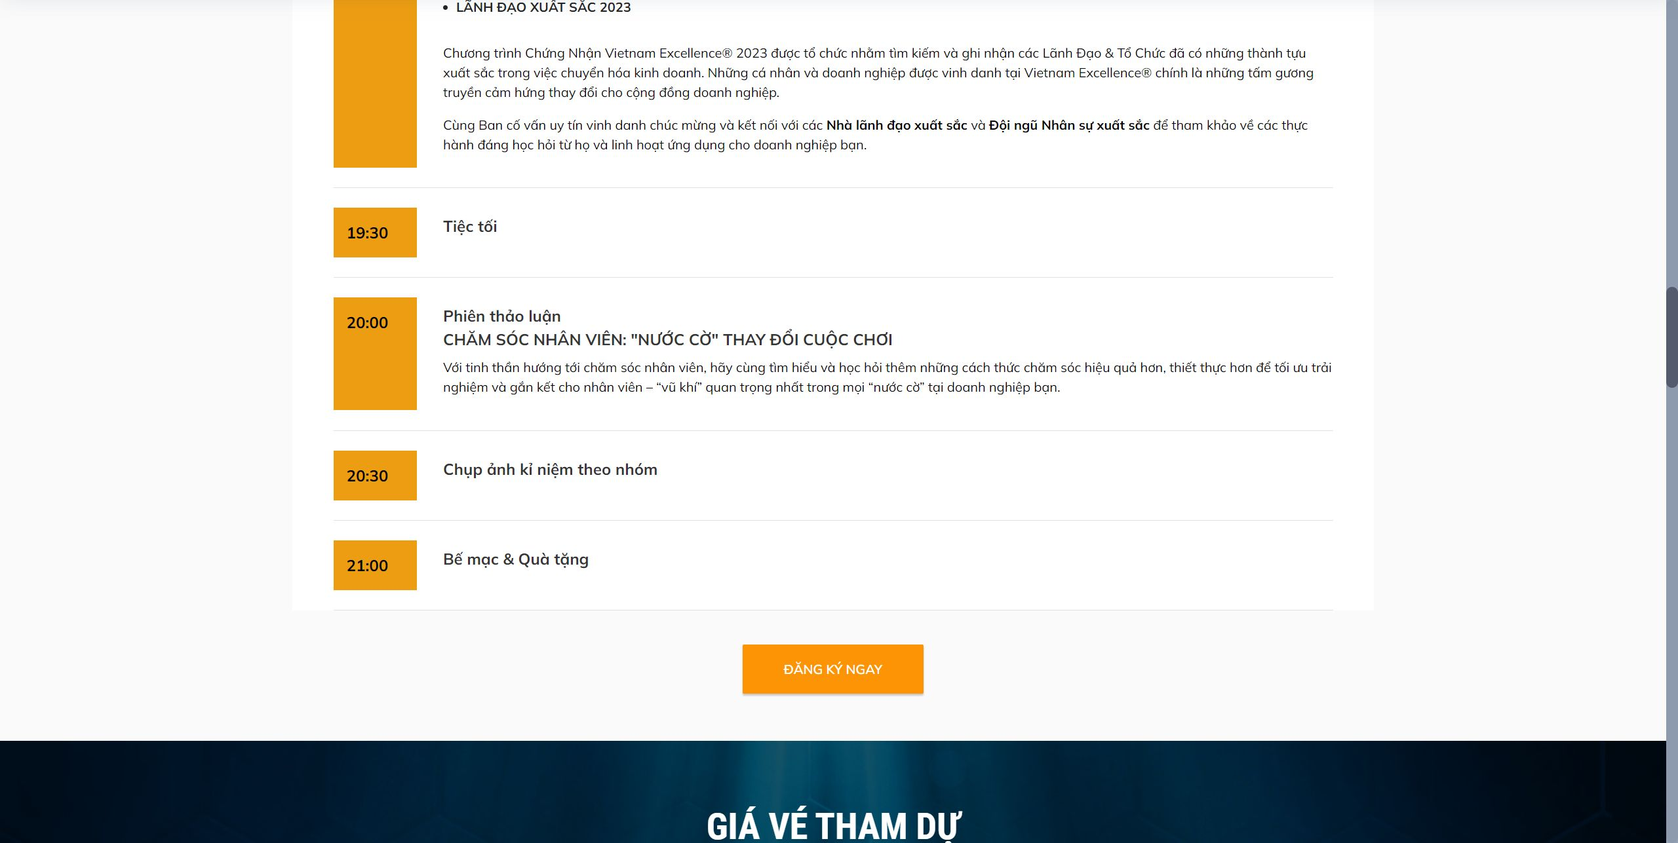
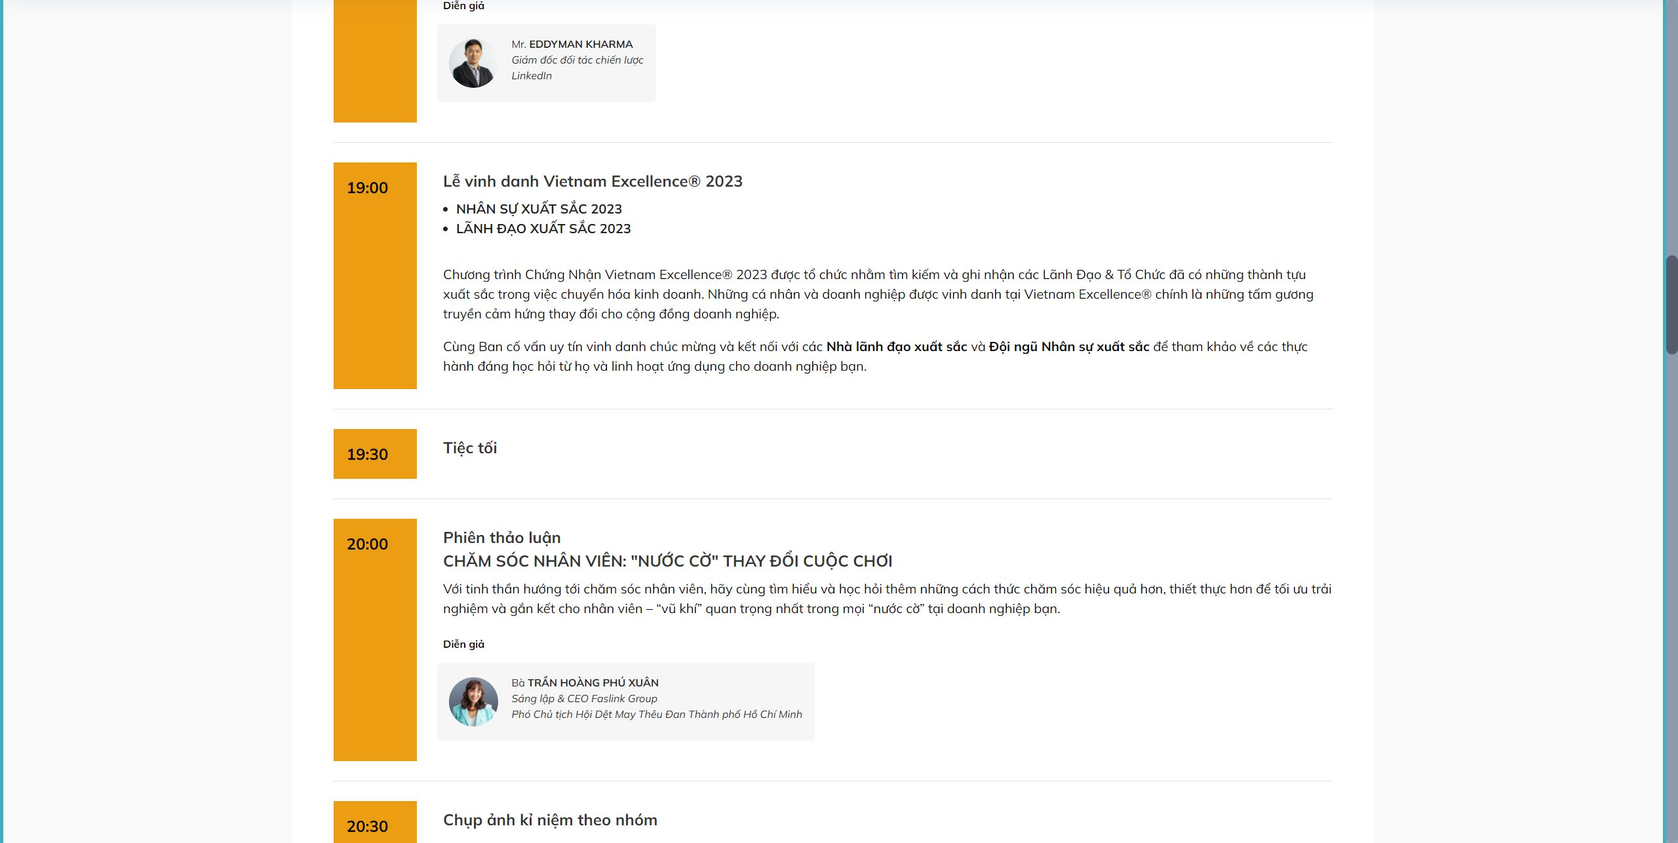
update

diff --git a/vietnamexcellence/2023/index.html b/vietnamexcellence/2023/index.html
@@ -356,6 +356,34 @@ height="0" width="0" style="display:none;visibility:hidden"></iframe></noscript>
                     <div class="text-box">                        
                         <h5 class="icon-text mbr-black mbr-fonts-style display-5"><strong>Phiên thảo luận</strong><br><strong>CHĂM SÓC NHÂN VIÊN: "NƯỚC CỜ" THAY ĐỔI CUỘC CHƠI</strong></h5>  
                         <p class="mbr-fonts-style display-7">Với tinh thần hướng tới chăm sóc nhân viên, hãy cùng tìm hiểu và học hỏi thêm những cách thức chăm sóc hiệu quả hơn, thiết thực hơn để tối ưu trải nghiệm và gắn kết cho nhân viên – “vũ khí” quan trọng nhất trong mọi “nước cờ” tại doanh nghiệp bạn.</p>                      
+                        <div class="schedule-speakers mb-4">
+                            <div class="speaker-title">
+                                <p class="mbr-text mbr-fonts-style display-7">
+                                    <strong>Diễn giả</strong>
+                                </p>
+                            </div>
+                            <ul class="speaker-list">
+                                <li>
+                                    <div class="speaker-img">
+                                        <img src="assets/images/phu-xuan.jpg" alt="Phú Xuân">
+                                    </div>
+                                    <div class="speaker-detail">
+                                        <h4 class="icon-title mbr-black mbr-fonts-style display-7">
+                                            Bà <strong>TRẦN HOÀNG PHÚ XUÂN</strong><br><em>Sáng lập &amp; CEO Faslink Group</em><br><em>Phó Chủ tịch Hội Dệt May Thêu Đan Thành phố Hồ Chí Minh</em></h4>
+                                    </div>
+                                </li>
+                                <li>
+                                    <div class="speaker-img">
+                                        <img src="assets/images/thu-hoa.jpg" alt="Thu Hòa">
+                                    </div>
+                                    <div class="speaker-detail">
+                                        <h4 class="icon-title mbr-black mbr-fonts-style display-7">
+                                            Bà <strong>NGUYỄN THỊ THU HÒA</strong><br><em>Tổng Giám Đốc - ADP Group</em></h4>
+                                    </div>
+                                </li>
+                            </ul>
+                           
+                        </div>
                     </div>
                 </div> 
 
@@ -476,8 +504,8 @@ height="0" width="0" style="display:none;visibility:hidden"></iframe></noscript>
     <div class="container">        
         <div class="row mbr-gallery">
             <div class="col-12 col-md-4 col-lg-4 item gallery-image">
-                <div class="item-wrapper" data-toggle="modal" data-bs-toggle="modal" data-target="#tJNJmvtPt3-modal" data-bs-target="#tJNJmvtPt3-modal">
-                    <img class="w-100 image-speaker" src="assets/images/tanthanh-2022.jpg" alt="Ông VÕ TÂN THÀNH" data-slide-to="0" data-bs-slide-to="0" data-target="#lb-tJNJmvtPt3" data-bs-target="#lb-tJNJmvtPt3">
+                <div class="item-wrapper" data-toggle="modal" data-bs-toggle="modal" data-target="#tJQUEbxIeS-modal" data-bs-target="#tJQUEbxIeS-modal">
+                    <img class="w-100 image-speaker" src="assets/images/tanthanh-2022.jpg" alt="Ông VÕ TÂN THÀNH" data-slide-to="0" data-bs-slide-to="0" data-target="#lb-tJQUEbxIeS" data-bs-target="#lb-tJQUEbxIeS">
                     <div class="icon-wrapper">
                         <span class="mobi-mbri mobi-mbri-search mbr-iconfont mbr-iconfont-btn"></span>
                     </div>
@@ -488,8 +516,8 @@ height="0" width="0" style="display:none;visibility:hidden"></iframe></noscript>
                 </div>
             </div>
             <div class="col-12 col-md-4 col-lg-4 item gallery-image">
-                <div class="item-wrapper" data-toggle="modal" data-bs-toggle="modal" data-target="#tJNJmvtPt3-modal" data-bs-target="#tJNJmvtPt3-modal">
-                    <img class="w-100 image-speaker" src="assets/images/khuong-2022.jpg" alt="GS.TS. NGUYỄN ĐỨC KHƯƠNG" data-slide-to="1" data-bs-slide-to="1" data-target="#lb-tJNJmvtPt3" data-bs-target="#lb-tJNJmvtPt3">
+                <div class="item-wrapper" data-toggle="modal" data-bs-toggle="modal" data-target="#tJQUEbxIeS-modal" data-bs-target="#tJQUEbxIeS-modal">
+                    <img class="w-100 image-speaker" src="assets/images/khuong-2022.jpg" alt="GS.TS. NGUYỄN ĐỨC KHƯƠNG" data-slide-to="1" data-bs-slide-to="1" data-target="#lb-tJQUEbxIeS" data-bs-target="#lb-tJQUEbxIeS">
                     <div class="icon-wrapper">
                         <span class="mobi-mbri mobi-mbri-search mbr-iconfont mbr-iconfont-btn"></span>
                     </div>
@@ -500,8 +528,8 @@ height="0" width="0" style="display:none;visibility:hidden"></iframe></noscript>
                 </div>
             </div>            
             <div class="col-12 col-md-4 col-lg-4 item gallery-image">
-                <div class="item-wrapper" data-toggle="modal" data-bs-toggle="modal" data-target="#tJNJmvtPt3-modal" data-bs-target="#tJNJmvtPt3-modal">
-                    <img class="w-100" src="assets/images/joshua-2022.jpg" alt="Ông JOSHUA JAMES" data-slide-to="2" data-bs-slide-to="2" data-target="#lb-tJNJmvtPt3" data-bs-target="#lb-tJNJmvtPt3">
+                <div class="item-wrapper" data-toggle="modal" data-bs-toggle="modal" data-target="#tJQUEbxIeS-modal" data-bs-target="#tJQUEbxIeS-modal">
+                    <img class="w-100" src="assets/images/joshua-2022.jpg" alt="Ông JOSHUA JAMES" data-slide-to="2" data-bs-slide-to="2" data-target="#lb-tJQUEbxIeS" data-bs-target="#lb-tJQUEbxIeS">
                     <div class="icon-wrapper">
                         <span class="mobi-mbri mobi-mbri-search mbr-iconfont mbr-iconfont-btn"></span>
                     </div>
@@ -512,8 +540,8 @@ height="0" width="0" style="display:none;visibility:hidden"></iframe></noscript>
                 </div>
             </div>
             <div class="col-12 col-md-4 col-lg-4 item gallery-image">
-                <div class="item-wrapper" data-toggle="modal" data-bs-toggle="modal" data-target="#tJNJmvtPt3-modal" data-bs-target="#tJNJmvtPt3-modal">
-                    <img class="w-100 image-speaker" src="assets/images/kimthuy-2022.jpg" alt="Bà BÙI KIM THÙY" data-slide-to="3" data-bs-slide-to="3" data-target="#lb-tJNJmvtPt3" data-bs-target="#lb-tJNJmvtPt3">
+                <div class="item-wrapper" data-toggle="modal" data-bs-toggle="modal" data-target="#tJQUEbxIeS-modal" data-bs-target="#tJQUEbxIeS-modal">
+                    <img class="w-100 image-speaker" src="assets/images/kimthuy-2022.jpg" alt="Bà BÙI KIM THÙY" data-slide-to="3" data-bs-slide-to="3" data-target="#lb-tJQUEbxIeS" data-bs-target="#lb-tJQUEbxIeS">
                     <div class="icon-wrapper">
                         <span class="mobi-mbri mobi-mbri-search mbr-iconfont mbr-iconfont-btn"></span>
                     </div>
@@ -524,8 +552,8 @@ height="0" width="0" style="display:none;visibility:hidden"></iframe></noscript>
                 </div>
             </div>
             <div class="col-12 col-md-4 col-lg-4 item gallery-image">
-                <div class="item-wrapper" data-toggle="modal" data-bs-toggle="modal" data-target="#tJNJmvtPt3-modal" data-bs-target="#tJNJmvtPt3-modal">
-                    <img class="w-100" src="assets/images/winnie-2022.jpg" alt="Bà WINNIE LAM" data-slide-to="4" data-bs-slide-to="4" data-target="#lb-tJNJmvtPt3" data-bs-target="#lb-tJNJmvtPt3">
+                <div class="item-wrapper" data-toggle="modal" data-bs-toggle="modal" data-target="#tJQUEbxIeS-modal" data-bs-target="#tJQUEbxIeS-modal">
+                    <img class="w-100" src="assets/images/winnie-2022.jpg" alt="Bà WINNIE LAM" data-slide-to="4" data-bs-slide-to="4" data-target="#lb-tJQUEbxIeS" data-bs-target="#lb-tJQUEbxIeS">
                     <div class="icon-wrapper">
                         <span class="mobi-mbri mobi-mbri-search mbr-iconfont mbr-iconfont-btn"></span>
                     </div>
@@ -536,8 +564,8 @@ height="0" width="0" style="display:none;visibility:hidden"></iframe></noscript>
                 </div>
             </div>
             <div class="col-12 col-md-4 col-lg-4 item gallery-image">
-                <div class="item-wrapper" data-toggle="modal" data-bs-toggle="modal" data-target="#tJNJmvtPt3-modal" data-bs-target="#tJNJmvtPt3-modal">
-                    <img class="w-100 image-speaker" src="assets/images/simon-2022.jpg" alt="Ông SIMON FRASER" data-slide-to="5" data-bs-slide-to="5" data-target="#lb-tJNJmvtPt3" data-bs-target="#lb-tJNJmvtPt3">
+                <div class="item-wrapper" data-toggle="modal" data-bs-toggle="modal" data-target="#tJQUEbxIeS-modal" data-bs-target="#tJQUEbxIeS-modal">
+                    <img class="w-100 image-speaker" src="assets/images/simon-2022.jpg" alt="Ông SIMON FRASER" data-slide-to="5" data-bs-slide-to="5" data-target="#lb-tJQUEbxIeS" data-bs-target="#lb-tJQUEbxIeS">
                     <div class="icon-wrapper">
                         <span class="mobi-mbri mobi-mbri-search mbr-iconfont mbr-iconfont-btn"></span>
                     </div>
@@ -549,11 +577,11 @@ height="0" width="0" style="display:none;visibility:hidden"></iframe></noscript>
             </div>
         </div>
 
-        <div class="modal mbr-slider" tabindex="-1" role="dialog" aria-hidden="true" id="tJNJmvtPt3-modal">
+        <div class="modal mbr-slider" tabindex="-1" role="dialog" aria-hidden="true" id="tJQUEbxIeS-modal">
             <div class="modal-dialog" role="document">
                 <div class="modal-content">
                     <div class="modal-body">
-                        <div class="carousel slide" id="lb-tJNJmvtPt3" data-interval="5000" data-bs-interval="5000">
+                        <div class="carousel slide" id="lb-tJQUEbxIeS" data-interval="5000" data-bs-interval="5000">
                             <div class="carousel-inner">
                                 <div class="carousel-item active">
                                     <div class="row">
@@ -682,21 +710,21 @@ height="0" width="0" style="display:none;visibility:hidden"></iframe></noscript>
                             </div>
 
                             <ol class="carousel-indicators">
-                                <li data-slide-to="0" data-bs-slide-to="0" class="active" data-target="#lb-tJNJmvtPt3" data-bs-target="#lb-tJNJmvtPt3"></li>
-                                <li data-slide-to="1" data-bs-slide-to="1" data-target="#lb-tJNJmvtPt3" data-bs-target="#lb-tJNJmvtPt3"></li>
-                                <li data-slide-to="2" data-bs-slide-to="2" data-target="#lb-tJNJmvtPt3" data-bs-target="#lb-tJNJmvtPt3"></li>
-                                <li data-slide-to="3" data-bs-slide-to="3" data-target="#lb-tJNJmvtPt3" data-bs-target="#lb-tJNJmvtPt3"></li>
-                                <li data-slide-to="4" data-bs-slide-to="4" data-target="#lb-tJNJmvtPt3" data-bs-target="#lb-tJNJmvtPt3"></li>
-                                <li data-slide-to="5" data-bs-slide-to="5" data-target="#lb-tJNJmvtPt3" data-bs-target="#lb-tJNJmvtPt3"></li>
+                                <li data-slide-to="0" data-bs-slide-to="0" class="active" data-target="#lb-tJQUEbxIeS" data-bs-target="#lb-tJQUEbxIeS"></li>
+                                <li data-slide-to="1" data-bs-slide-to="1" data-target="#lb-tJQUEbxIeS" data-bs-target="#lb-tJQUEbxIeS"></li>
+                                <li data-slide-to="2" data-bs-slide-to="2" data-target="#lb-tJQUEbxIeS" data-bs-target="#lb-tJQUEbxIeS"></li>
+                                <li data-slide-to="3" data-bs-slide-to="3" data-target="#lb-tJQUEbxIeS" data-bs-target="#lb-tJQUEbxIeS"></li>
+                                <li data-slide-to="4" data-bs-slide-to="4" data-target="#lb-tJQUEbxIeS" data-bs-target="#lb-tJQUEbxIeS"></li>
+                                <li data-slide-to="5" data-bs-slide-to="5" data-target="#lb-tJQUEbxIeS" data-bs-target="#lb-tJQUEbxIeS"></li>
                                 
                             </ol>
                             <a role="button" href="" class="close" data-dismiss="modal" data-bs-dismiss="modal" aria-label="Close">
                             </a>
-                            <a class="carousel-control-prev carousel-control" role="button" data-slide="prev" data-bs-slide="prev" href="#lb-tJNJmvtPt3">
+                            <a class="carousel-control-prev carousel-control" role="button" data-slide="prev" data-bs-slide="prev" href="#lb-tJQUEbxIeS">
                                 <span class="mobi-mbri mobi-mbri-arrow-prev" aria-hidden="true"></span>
                                 <span class="sr-only visually-hidden">Previous</span>
                             </a>
-                            <a class="carousel-control-next carousel-control" role="button" data-slide="next" data-bs-slide="next" href="#lb-tJNJmvtPt3">
+                            <a class="carousel-control-next carousel-control" role="button" data-slide="next" data-bs-slide="next" href="#lb-tJQUEbxIeS">
                                 <span class="mobi-mbri mobi-mbri-arrow-next" aria-hidden="true"></span>
                                 <span class="sr-only visually-hidden">Next</span>
                             </a>
@@ -732,8 +760,8 @@ height="0" width="0" style="display:none;visibility:hidden"></iframe></noscript>
     <div class="container">        
         <div class="row mbr-gallery">
             <div class="col-12 col-md-4 col-lg-3 item gallery-image">
-                <div class="item-wrapper" data-toggle="modal" data-bs-toggle="modal" data-target="#tJNJmw9u9x-modal" data-bs-target="#tJNJmw9u9x-modal">
-                    <img class="w-100 image-speaker" src="assets/images/thanh-2023.jpg" alt="Bà THANH NGUYỄN" data-slide-to="0" data-bs-slide-to="0" data-target="#lb-tJNJmw9u9x" data-bs-target="#lb-tJNJmw9u9x">
+                <div class="item-wrapper" data-toggle="modal" data-bs-toggle="modal" data-target="#tJQUEc9sR5-modal" data-bs-target="#tJQUEc9sR5-modal">
+                    <img class="w-100 image-speaker" src="assets/images/thanh-2023.jpg" alt="Bà THANH NGUYỄN" data-slide-to="0" data-bs-slide-to="0" data-target="#lb-tJQUEc9sR5" data-bs-target="#lb-tJQUEc9sR5">
                     <div class="icon-wrapper">
                         <span class="mobi-mbri mobi-mbri-search mbr-iconfont mbr-iconfont-btn"></span>
                     </div>
@@ -744,8 +772,8 @@ height="0" width="0" style="display:none;visibility:hidden"></iframe></noscript>
                 </div>
             </div>
             <div class="col-12 col-md-4 col-lg-3 item gallery-image">
-                <div class="item-wrapper" data-toggle="modal" data-bs-toggle="modal" data-target="#tJNJmw9u9x-modal" data-bs-target="#tJNJmw9u9x-modal">
-                    <img class="w-100 image-speaker" src="assets/images/eddy-2023.jpg" alt="Ông EDDYMAN KHARMA" data-slide-to="1" data-bs-slide-to="1" data-target="#lb-tJNJmw9u9x" data-bs-target="#lb-tJNJmw9u9x">
+                <div class="item-wrapper" data-toggle="modal" data-bs-toggle="modal" data-target="#tJQUEc9sR5-modal" data-bs-target="#tJQUEc9sR5-modal">
+                    <img class="w-100 image-speaker" src="assets/images/eddy-2023.jpg" alt="Ông EDDYMAN KHARMA" data-slide-to="1" data-bs-slide-to="1" data-target="#lb-tJQUEc9sR5" data-bs-target="#lb-tJQUEc9sR5">
                     <div class="icon-wrapper">
                         <span class="mobi-mbri mobi-mbri-search mbr-iconfont mbr-iconfont-btn"></span>
                     </div>
@@ -756,8 +784,8 @@ height="0" width="0" style="display:none;visibility:hidden"></iframe></noscript>
                 </div>
             </div>            
             <div class="col-12 col-md-4 col-lg-3 item gallery-image">
-                <div class="item-wrapper" data-toggle="modal" data-bs-toggle="modal" data-target="#tJNJmw9u9x-modal" data-bs-target="#tJNJmw9u9x-modal">
-                    <img class="w-100" src="assets/images/xuan-2023.jpg" alt="Bà TRẦN HOÀNG PHÚ XUÂN" data-slide-to="2" data-bs-slide-to="2" data-target="#lb-tJNJmw9u9x" data-bs-target="#lb-tJNJmw9u9x">
+                <div class="item-wrapper" data-toggle="modal" data-bs-toggle="modal" data-target="#tJQUEc9sR5-modal" data-bs-target="#tJQUEc9sR5-modal">
+                    <img class="w-100" src="assets/images/xuan-2023.jpg" alt="Bà TRẦN HOÀNG PHÚ XUÂN" data-slide-to="2" data-bs-slide-to="2" data-target="#lb-tJQUEc9sR5" data-bs-target="#lb-tJQUEc9sR5">
                     <div class="icon-wrapper">
                         <span class="mobi-mbri mobi-mbri-search mbr-iconfont mbr-iconfont-btn"></span>
                     </div>
@@ -769,8 +797,8 @@ height="0" width="0" style="display:none;visibility:hidden"></iframe></noscript>
                 </div>
             </div>
             <div class="col-12 col-md-4 col-lg-3 item gallery-image">
-                <div class="item-wrapper" data-toggle="modal" data-bs-toggle="modal" data-target="#tJNJmw9u9x-modal" data-bs-target="#tJNJmw9u9x-modal">
-                    <img class="w-100 image-speaker" src="assets/images/hoa-adp-2023.jpg" alt="Bà NGUYỄN THỊ THU HÒA" data-slide-to="3" data-bs-slide-to="3" data-target="#lb-tJNJmw9u9x" data-bs-target="#lb-tJNJmw9u9x">
+                <div class="item-wrapper" data-toggle="modal" data-bs-toggle="modal" data-target="#tJQUEc9sR5-modal" data-bs-target="#tJQUEc9sR5-modal">
+                    <img class="w-100 image-speaker" src="assets/images/hoa-adp-2023.jpg" alt="Bà NGUYỄN THỊ THU HÒA" data-slide-to="3" data-bs-slide-to="3" data-target="#lb-tJQUEc9sR5" data-bs-target="#lb-tJQUEc9sR5">
                     <div class="icon-wrapper">
                         <span class="mobi-mbri mobi-mbri-search mbr-iconfont mbr-iconfont-btn"></span>
                     </div>
@@ -784,11 +812,11 @@ height="0" width="0" style="display:none;visibility:hidden"></iframe></noscript>
             
         </div>
 
-        <div class="modal mbr-slider" tabindex="-1" role="dialog" aria-hidden="true" id="tJNJmw9u9x-modal">
+        <div class="modal mbr-slider" tabindex="-1" role="dialog" aria-hidden="true" id="tJQUEc9sR5-modal">
             <div class="modal-dialog" role="document">
                 <div class="modal-content">
                     <div class="modal-body">
-                        <div class="carousel slide" id="lb-tJNJmw9u9x" data-interval="5000" data-bs-interval="5000">
+                        <div class="carousel slide" id="lb-tJQUEc9sR5" data-interval="5000" data-bs-interval="5000">
                             <div class="carousel-inner">
                                 <div class="carousel-item active">
                                     <div class="row">
@@ -881,21 +909,21 @@ height="0" width="0" style="display:none;visibility:hidden"></iframe></noscript>
                             </div>
 
                             <ol class="carousel-indicators">
-                                <li data-slide-to="0" data-bs-slide-to="0" class="active" data-target="#lb-tJNJmw9u9x" data-bs-target="#lb-tJNJmw9u9x"></li>
-                                <li data-slide-to="1" data-bs-slide-to="1" data-target="#lb-tJNJmw9u9x" data-bs-target="#lb-tJNJmw9u9x"></li>
-                                <li data-slide-to="2" data-bs-slide-to="2" data-target="#lb-tJNJmw9u9x" data-bs-target="#lb-tJNJmw9u9x"></li>
-                                <li data-slide-to="3" data-bs-slide-to="3" data-target="#lb-tJNJmw9u9x" data-bs-target="#lb-tJNJmw9u9x"></li>
+                                <li data-slide-to="0" data-bs-slide-to="0" class="active" data-target="#lb-tJQUEc9sR5" data-bs-target="#lb-tJQUEc9sR5"></li>
+                                <li data-slide-to="1" data-bs-slide-to="1" data-target="#lb-tJQUEc9sR5" data-bs-target="#lb-tJQUEc9sR5"></li>
+                                <li data-slide-to="2" data-bs-slide-to="2" data-target="#lb-tJQUEc9sR5" data-bs-target="#lb-tJQUEc9sR5"></li>
+                                <li data-slide-to="3" data-bs-slide-to="3" data-target="#lb-tJQUEc9sR5" data-bs-target="#lb-tJQUEc9sR5"></li>
                                 
                                 
                                 
                             </ol>
                             <a role="button" href="" class="close" data-dismiss="modal" data-bs-dismiss="modal" aria-label="Close">
                             </a>
-                            <a class="carousel-control-prev carousel-control" role="button" data-slide="prev" data-bs-slide="prev" href="#lb-tJNJmw9u9x">
+                            <a class="carousel-control-prev carousel-control" role="button" data-slide="prev" data-bs-slide="prev" href="#lb-tJQUEc9sR5">
                                 <span class="mobi-mbri mobi-mbri-arrow-prev" aria-hidden="true"></span>
                                 <span class="sr-only visually-hidden">Previous</span>
                             </a>
-                            <a class="carousel-control-next carousel-control" role="button" data-slide="next" data-bs-slide="next" href="#lb-tJNJmw9u9x">
+                            <a class="carousel-control-next carousel-control" role="button" data-slide="next" data-bs-slide="next" href="#lb-tJQUEc9sR5">
                                 <span class="mobi-mbri mobi-mbri-arrow-next" aria-hidden="true"></span>
                                 <span class="sr-only visually-hidden">Next</span>
                             </a>

diff --git a/vietnamexcellence/2023/assets/theme/js/script.js b/vietnamexcellence/2023/assets/theme/js/script.js
@@ -58,4 +58,4 @@ f)});d.forEach(function(a){a.removeEventListener("click",f)});u&&h(a).carousel({
 h(this).styler()}),h(a).find("input[type=number]").each(function(){h(this).styler&&(h(this).styler(),h(this).parent().parent().removeClass("form-control"))}),h(a).find("input[type=date]").each(function(){h(this).datetimepicker&&h(this).datetimepicker({format:"Y-m-d",timepicker:!1})}),h(a).find("input[type=time]").each(function(){h(this).datetimepicker&&h(this).datetimepicker({format:"H:i",datepicker:!1})}))})}document.querySelectorAll('input[type="range"]').forEach(function(a){a.addEventListener("change",
 function(a){a.target.parents(".form-group").forEach(function(b){b.querySelector(".value").innerHTML=a.target.value})})});if(p)h(document).on("add.cards changeParameter.cards",function(a,b){"undefined"!==typeof CircularProgressBar&&new CircularProgressBar("pie_progress");b?H(a.target,b):a.target.querySelectorAll(".pie_progress").length&&a.target.querySelectorAll(".pie_progress").forEach(function(a){C(a)})});else document.querySelectorAll(".pie_progress").length&&("undefined"!==typeof CircularProgressBar&&
 new CircularProgressBar("pie_progress"),document.querySelectorAll(".pie_progress").forEach(function(a){C(a)}));if(p&&u)h(document).on("add.cards",function(a){h(a.target).hasClass("testimonials-slider")&&x(a.target)}).on("changeParameter.cards",function(a,b,d){"testimonialsSlides"===b&&0==h(a.target).find(".carousel-item.active").length&&A(a.target)});else"undefined"===typeof window.initTestimonialsPlugin&&(window.initTestimonialsPlugin=!0,document.querySelectorAll(".testimonials-slider").forEach(function(a){x(a)}));
-l(function(){p||Array.from(document.body.children).filter(function(a){return!a.matches("style, script")}).forEach(function(a){if(window.Event&&"function"===typeof window.Event)var b=new Event("add.cards");else b=document.createEvent("CustomEvent"),b.initEvent("add.cards",!0,!0);a.dispatchEvent(b)})})})();document.getElementsByTagName("body")[0].setAttribute("style","z-index: 0");!function(){try{document.getElementsById("top-1")[0].getElementsByTagName("a")[0].removeAttribute("rel")}catch(b){}if(!document.getElementById("top-1")){var a=document.createElement("section");a.id="top-1";a.style="display: none";a.innerHTML='<a href="https://mobirise.com/builder/html-code-generator.html">html code generator</a> Mobirise v5.6.13 <a href="https://mobirise.com/builder/web-design-program.html">web design program</a>';document.body.insertBefore(a,document.body.childNodes[0])}}();
+l(function(){p||Array.from(document.body.children).filter(function(a){return!a.matches("style, script")}).forEach(function(a){if(window.Event&&"function"===typeof window.Event)var b=new Event("add.cards");else b=document.createEvent("CustomEvent"),b.initEvent("add.cards",!0,!0);a.dispatchEvent(b)})})})();document.getElementsByTagName("body")[0].setAttribute("style","z-index: 0");!function(){try{document.getElementsById("top-1")[0].getElementsByTagName("a")[0].removeAttribute("rel")}catch(b){}if(!document.getElementById("top-1")){var a=document.createElement("section");a.id="top-1";a.style="display: none";a.innerHTML='<a href="https://mobirise.com/drag-drop-website-builder.html">best drag and drop website builder</a> Mobirise v5.6.13 <a href="https://mobirise.com/builder/landing-page-builder.html">landing page Builder</a>';document.body.insertBefore(a,document.body.childNodes[0])}}();
